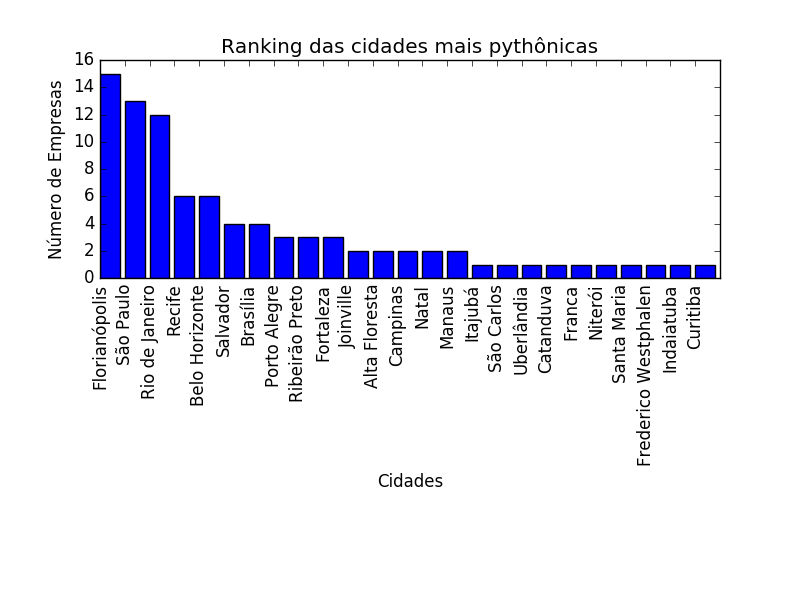
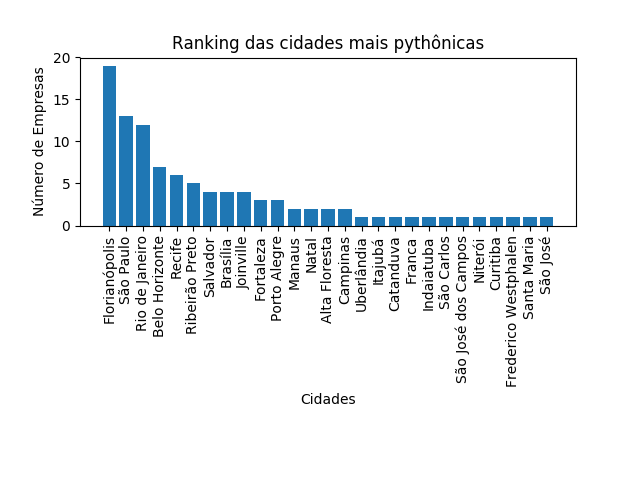
Add Nexxera. (#86)
* Add Nexxera.

* Update ranking.png.

diff --git a/README.md b/README.md
@@ -253,7 +253,7 @@ ER Sistemas | [http://www.ersistemas.info](http://www.ersistemas.info) | contato
 
 ### Santa Catarina
 #### Florianópolis
-Total: 18
+Total: 19
 
 Empresa | Site | Contato | Vagas
  --- | --- | --- | ---
@@ -269,6 +269,7 @@ eCentry | [http://ecentry.com ](http://ecentry.com) | +55 48 3031 6200
 M2Agro | [http://m2agro.com.br ](http://m2agro.com.br) | marcelo.melo@m2agro.com.br
 Myreks | [http://www.myreks.com](http://www.myreks.com) | carrers@myreks.com
 Neoprospecta | [http://www.neoprospecta.com.br/ ](http://www.neoprospecta.com.br/) |
+Nexxera | [http://www.nexxera.com](http://www.nexxera.com) | +55 48 2106 5698
 ParMais | [http://www.parmais.com.br/ ](http://www.parmais.com.br/) | +55 48 3209 1609
 SIMB | [http://www.simb.com.br ](http://www.simb.com.br) | + 55 48 3028 7462
 Smarket Solutinos | [http://www.smarketsolutions.com.br/](http://www.smarketsolutions.com.br/) | +55 48 3307 1625
